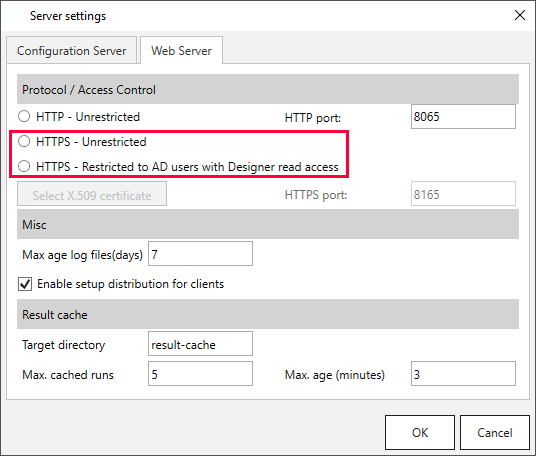
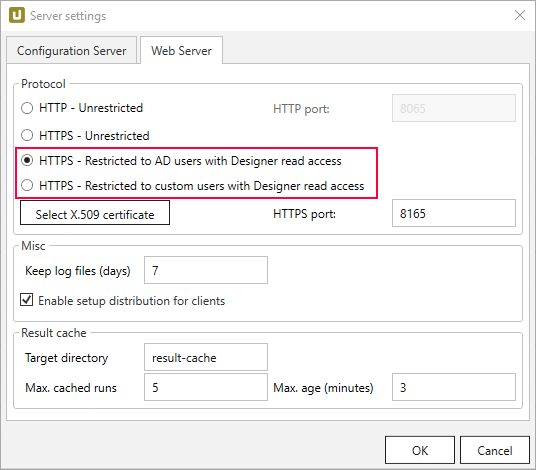
XU:EN: Server-Security - Changes 1

Changed region(s): [[0.0, 0.0, 1.0, 1.0], [0.7761, 0.7675, 0.9552, 0.7982]]

diff --git a/_includes/_content/en/xu-specific/security-xu3/server-security.md b/_includes/_content/en/xu-specific/security-xu3/server-security.md
@@ -1,17 +1,51 @@
-Access to the web server can be restricted by using the following options:
+### About
 
-- HTTPS - Unrestricted
-- HTTPS - Restricted to AD users with Designer read access
+This chapter describes how running an extraction (technically: accessing Xtract Universal's built in web server) can be restricted to predefined users or user groups. <br>
+Only users who are entitled to execute an extraction can do so. All others get an "Access denied" message when calling the URL of the Xtract Universal web server, for example when trying to execute an extraction.
+
+There are two types of users access can be restricted to. 
+1. Windows AD users (Kerberos authentication)
+2. [XU custom users]() (Basic authentication) 
+
 
 ![webserver settings](/img/content/xu/server-settings-security.png){:class="img-responsive"}
 
-### HTTPS - Unrestricted
-1. Select the option "HTTPS - Unrestricted".
-2. Click the **[Select X.509 certificate]** button. The "Edit certificate location" dialog opens.
-3. Select the [X.509 certificate](./install-x.509-Certificate) created for your machine under **Local Machine > Personal**.
-4. Confirm with **[OK]**. The dialog closes.
+If one of above options is set, an extraction can only be executed if:
+1. Windows AD credentials or credentials of an XU custom user are passed on when running an extraction.
+2. The Windows AD user or XU custom user have at least [Read access](./access-management#server-settings) to the Xtract Universal Designer. 
 
-### HTTPS - Restricted to AD users with Designer read access 
+
+
+### Prerequisite: Activating TLS encryption
+Both types of access restriction require installation of an X.509 certificate. This way, user credentials are encrypted when sent to the Xtract Universal web server. <br>
+It is assumed that an X.509 certificate is already installed in the Windows certificate store. If not, follow the steps as outlined [here](./install-x.509-Certificate).
+
+1. Go to [menu] - Server - Settings - *Web Server* tab
+2. Select *HTTPS - Restricted to AD users with Designer read access* or *HTTPS - Restricted to custom users with Designer read access.*
+3. Click the **[Select X.509 certificate]** button. The "Edit certificate location" dialog opens.
+4. Select the X.509 certificate created for your machine under **Local Machine > Personal**.
+5. Optional: Change the *HTTPS port*. Default value: 8165
+6. Confirm with **[OK]**. The dialog closes.
+
+
+
+### Restrict access to Windows AD users (Kerberos authentication) 
+
+The following describes the steps that are required for restricting access to the Xtract Universal web server to Windows AD users.
+
+
+0. Assign a Windows service account under which the XU service runs. See [Running the XU service under a Windows AD service account]().
+1. Activate TLS encryption as outlined in the section [Prerequisite: Activating TLS encryption]().
+2. Go to [menu] - Server - Settings -  *Web Server* tab. Select *HTTPS - Restricted to AD users with Designer read access*
+2. Switch to the *Configuration Server* tab
+3. Follow the steps for restricting Designer access as documented [here](./access-management#server-settings).  Add the Windows AD users which are allowed to execute an extraction. 
+4. Assign at least Read permission to the Windows AD users.
+5. Close all windows with **[OK]**
+6. Restart the server when prompted.
+
+**Result:** An extraction can only be executed, if the Windows AD credentials of the caller are passed on to the XU web server and the caller has at least Designer Read access.
+
+
 
 {: .box-warning}
 **Warning! The server is diconnected!**<br>
@@ -19,18 +53,25 @@ If the option "HTTPS - Restricted to AD users with Designer read access" is acti
 Create users and/or user groups and assign the required rights. See also [User Management](./user-management).
 
 
-1. Switch to the *Configuration Server* tab and mark the checkbox ["Restrict Designer access to the following users / groups"](./access-management).
-![configuration server tab](/img/content/xu/server-settings-configuration-tab.png){:class="img-responsive"}
-2. Click **[Add]** to search for [created users or user groups](./user-management). The search dialog opens.
-3. Search for the desired users or user groups. The use of wildcards (*) is supported.
-![Add Window](/img/content/xu/add-user.png){:class="img-responsive"}
-4. Switch back to the tab *Web Server* and select the option "HTTPS - Restricted to AD users with Designer read access".
-![webserver settings https](/img/content/xu/server-settings-security-https.png){:class="img-responsive"}
-5. Click the **[Select X.509 certificate]** button. The "Edit certificate location" dialog opens.
-6. Select the [X.509 certificate](./install-x.509-Certificate) created for your machine under **Local Machine > Personal**.
-7. Confirm with **[OK]**. The dialog closes. <br> The performed changes are activated by restarting the XU server.
-![Question Bild](/img/content/xu/restart-server.png){:class="img-responsive"}
-8. Click **[OK]** to restart the server.
+### Restrict access to XU custom users (Basic authentication)
+
+1. Activate TLS encryption as outlined in the section [Prerequisite: Activating TLS encryption]().
+2. Go to [menu] - Server - Settings -  *Web Server* tab. Select *HTTPS - Restricted to custom users with Designer read access.*
+2. Switch to the *Configuration Server* tab
+3. Follow the steps for restricting Designer access as documented [here](./access-management#server-settings).  Add the XU custom users which are allowed to execute an extraction. 
+4. Assign at least Read permission to the XU custom users.
+5. Close all Windows with **[OK]**
+6. Restart the server when prompted.
+
+
+{: .box-note}
+**Note**: Basic authentication is only supported when calling an extraction through the extraction's URL. Calling an extraction through *xu.exe* is currently not supported when Basic authentication is active.
+
+
+
+### Running the XU service under a Windows AD service account
+
+### Granting access on extraction level
 
 *********
 #### Related Links
